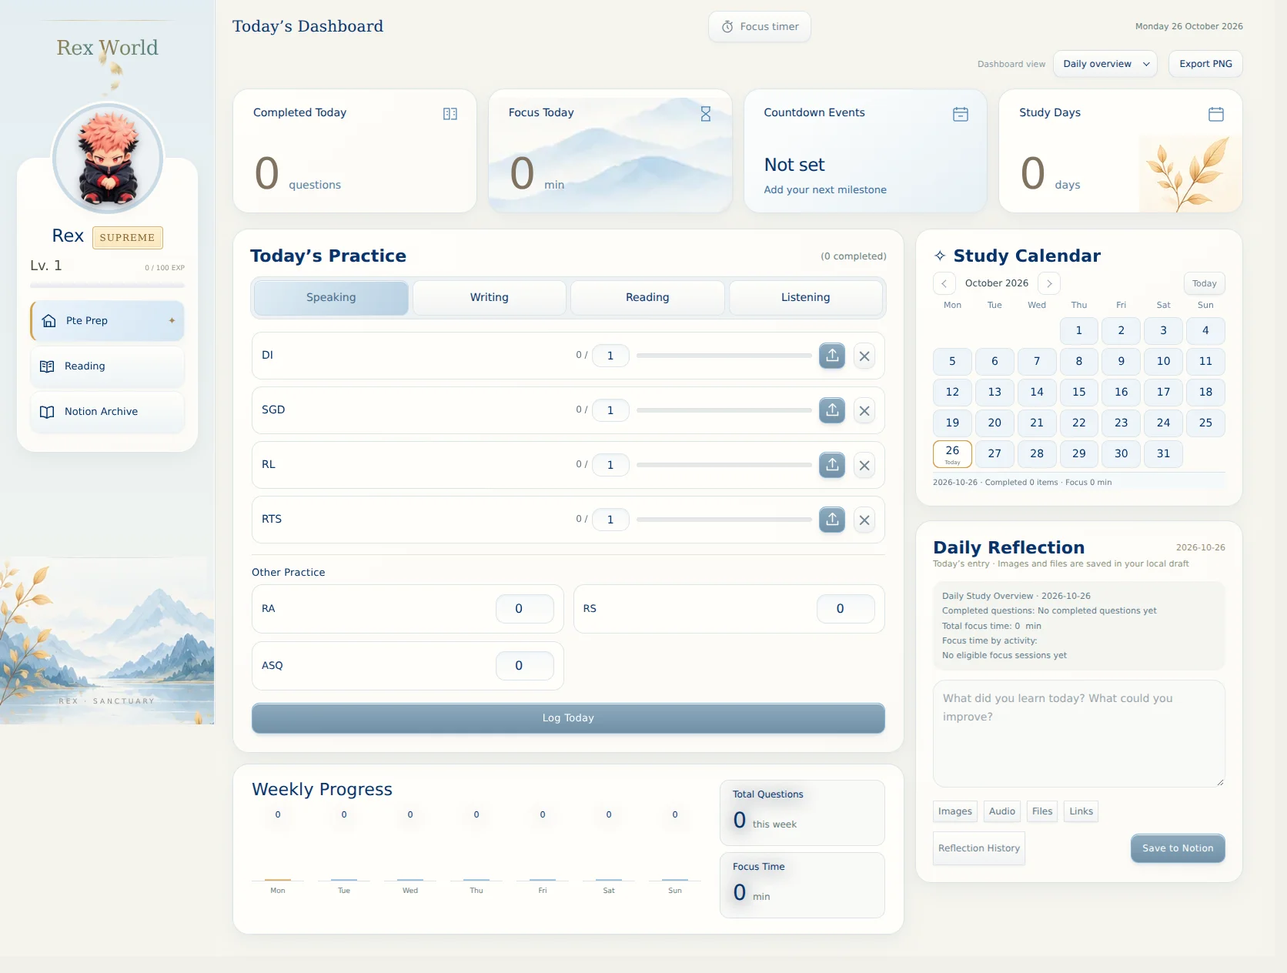
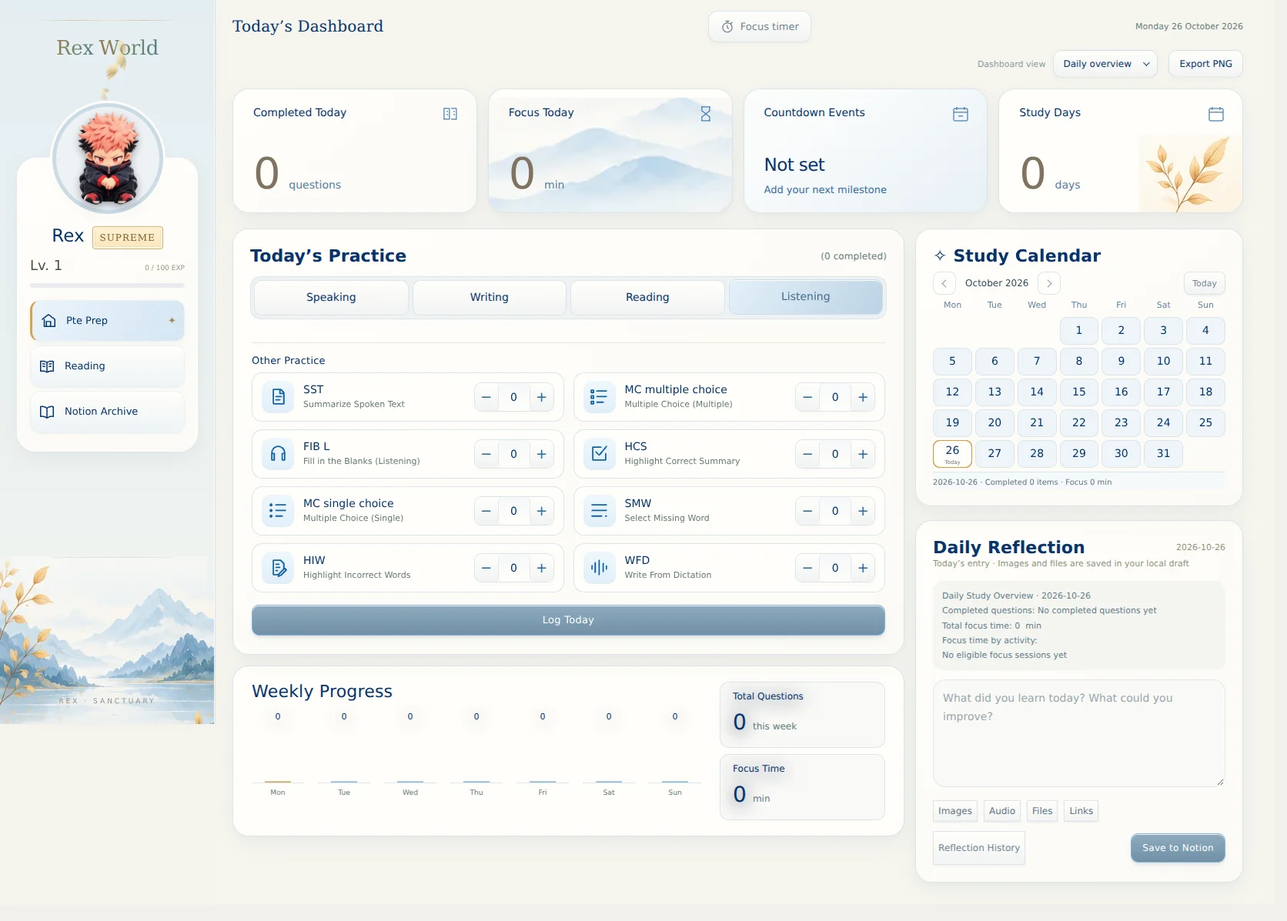
Match reference two-column practice cards and compact count controls

diff --git a/index.html b/index.html
@@ -3,7 +3,7 @@
 <meta name="rex-release" content="20261024-depth1">
 <meta charset="UTF-8"><meta name="viewport" content="width=device-width, initial-scale=1, viewport-fit=cover"><meta name="theme-color" content="#E8F0E8">
 <title>Rex World · Study Sanctuary</title>
-<link rel="manifest" href="manifest.webmanifest?v=20261024-light1"><link rel="apple-touch-icon" sizes="180x180" href="rex-wing-apple-180.png?v=20261019-wing1"><link rel="icon" type="image/x-icon" sizes="any" href="rex-wing.ico?v=20261019-wing1"><link rel="icon" type="image/png" sizes="32x32" href="rex-wing-favicon-32.png?v=20261019-wing1"><meta name="apple-mobile-web-app-capable" content="yes"><meta name="apple-mobile-web-app-status-bar-style" content="default"><meta name="apple-mobile-web-app-title" content="Rex World"><link rel="stylesheet" href="app.css?v=20261024-light1"><link rel="stylesheet" href="reading.css?v=20261024-light1"><link rel="stylesheet" href="champagne-title.css?v=20261024-light1"><link rel="stylesheet" href="rich-editor.css?v=20261024-light1"><script src="rich-doc.js?v=20261019-rich1"></script><script src="rich-codec.js?v=20261019-rich1"></script><script src="rich-editor.js?v=20261019-editor3"></script><script src="reading-document.js?v=20261020-editor6"></script><script src="reading-editor.js?v=20261020-mobile1"></script><link rel="stylesheet" href="focus-push.css?v=20261024-light1"><link rel="stylesheet" href="countdown.css?v=20261024-light1"><link rel="stylesheet" href="reading-focus.css?v=20261024-light1"><link rel="stylesheet" href="timer-entry.css?v=20261024-light1"><link rel="stylesheet" href="theme.css?v=20261024-light1"><link rel="stylesheet" href="depth-preview.css?v=20261024-light1"><link rel="stylesheet" href="sanctuary-refresh.css?v=20261026-sanctuary2"></head>
+<link rel="manifest" href="manifest.webmanifest?v=20261024-light1"><link rel="apple-touch-icon" sizes="180x180" href="rex-wing-apple-180.png?v=20261019-wing1"><link rel="icon" type="image/x-icon" sizes="any" href="rex-wing.ico?v=20261019-wing1"><link rel="icon" type="image/png" sizes="32x32" href="rex-wing-favicon-32.png?v=20261019-wing1"><meta name="apple-mobile-web-app-capable" content="yes"><meta name="apple-mobile-web-app-status-bar-style" content="default"><meta name="apple-mobile-web-app-title" content="Rex World"><link rel="stylesheet" href="app.css?v=20261024-light1"><link rel="stylesheet" href="reading.css?v=20261024-light1"><link rel="stylesheet" href="champagne-title.css?v=20261024-light1"><link rel="stylesheet" href="rich-editor.css?v=20261024-light1"><script src="rich-doc.js?v=20261019-rich1"></script><script src="rich-codec.js?v=20261019-rich1"></script><script src="rich-editor.js?v=20261019-editor3"></script><script src="reading-document.js?v=20261020-editor6"></script><script src="reading-editor.js?v=20261020-mobile1"></script><link rel="stylesheet" href="focus-push.css?v=20261024-light1"><link rel="stylesheet" href="countdown.css?v=20261024-light1"><link rel="stylesheet" href="reading-focus.css?v=20261024-light1"><link rel="stylesheet" href="timer-entry.css?v=20261024-light1"><link rel="stylesheet" href="theme.css?v=20261024-light1"><link rel="stylesheet" href="depth-preview.css?v=20261024-light1"><link rel="stylesheet" href="sanctuary-refresh.css?v=20261026-sanctuary3"></head>
 <body id="rexSanctuary">
 <header class="arcane-header" hidden="">
   <div class="header-inner">
@@ -19,4 +19,4 @@
 <details class="archive-dashboard-sync"><summary>Dashboard Storage · D1</summary><label>D1 Worker URL<input id="cloudOrigin" type="url" placeholder="https://rex-sync.xren0220.workers.dev" autocomplete="off"></label><label>D1 sync key<input id="cloudToken" type="password" autocomplete="off" placeholder="Use the same access key on phone and computer"></label><div class="profile-settings-actions"><button type="button" id="cloudConnect">Connect</button><button type="button" id="cloudSyncNow">Sync Now</button><button type="button" id="cloudDisconnect">Disconnect</button></div><p id="cloudStatus" role="status">D1 not connected · Dashboard records saved on this device</p><small>D1 stores question counts, focus sessions, countdown events and study dates. Notes, images, files and reflections use Notion. Use the same D1 Worker URL and sync key on each device.</small></details>
 <div id="archiveMessage" class="archive-message" role="status">Connect to Notion to browse your saved records.</div><div id="archiveGrid" class="archive-grid"></div></section></main><div class="notice" id="toast" role="status" aria-live="polite"></div>
 <script src="notion-reconcile.js?v=a0f22355cfb0"></script><script src="notion-archive.js?v=20261020-cleanup2"></script><script src="profile-menu.js?v=9dd853622098"></script><div class="focus-overlay" id="focusOverlay" hidden=""><section class="focus-dialog" role="dialog" aria-modal="true" aria-labelledby="focusTitle"><div class="focus-heading"><button type="button" id="focusMenuToggle" class="focus-icon" aria-label="Open timer menu" aria-expanded="false"><svg viewBox="0 0 24 24" width="20" height="20" fill="none" stroke="currentColor" stroke-width="1.5" stroke-linecap="round"><path d="M4 6h16M4 12h16M4 18h16"></path></svg></button><h2 id="focusTitle">Focus Timer</h2><div class="focus-window-actions"><button class="focus-minimize" type="button" aria-label="Minimize timer" title="Minimize to diamond">−</button><button class="focus-close" type="button" aria-label="Close timer"><svg viewBox="0 0 24 24" width="20" height="20" fill="none" stroke="currentColor" stroke-width="1.5" stroke-linecap="round"><path d="m6 6 12 12M18 6 6 18"></path></svg></button></div></div><nav id="focusMenu" class="focus-menu" aria-label="Focus Menu" hidden=""><button type="button" id="focusMenuTimer">Focus Timer</button><button type="button" id="focusMenuStats">Statistics</button></nav><div id="focusTimerView"><div class="focus-modes" aria-label="Timer mode"><button type="button" data-timer-mode="down" aria-pressed="true">Countdown</button><button type="button" data-timer-mode="up" aria-pressed="false">Stopwatch</button></div><label class="focus-duration" id="focusDuration">Focus duration <input id="focusMinutes" type="number" min="1" max="180" value="25" aria-label="Countdown minutes">  min</label><label class="focus-goal"><input id="focusGoal" maxlength="80" placeholder="What will you focus on?" aria-label="Focus goal"><span aria-hidden="true">✧</span></label><div class="focus-time" id="focusTime" role="button" tabindex="0" aria-label="Choose duration"><span class="timer-suspension" aria-hidden="true"></span><span class="timer-cloud" aria-hidden="true"></span><span class="timer-digits" id="timerDigits" title="Click to choose duration">25:00</span><span class="timer-glass-stars" aria-hidden="true">✧ · ✦</span></div><div id="focusTimePicker" class="focus-time-picker" role="dialog" aria-label="Choose duration" hidden=""><p>Choose duration</p><div class="focus-time-presets"><button type="button" data-focus-minutes="15">15  min</button><button type="button" data-focus-minutes="25">25  min</button><button type="button" data-focus-minutes="45">45  min</button><button type="button" data-focus-minutes="60">60  min</button></div><form id="focusCustomTime"><label>Custom <input id="focusCustomMinutes" type="number" min="1" max="180" step="1" value="25" required="">  min</label><button type="submit">Confirm</button></form><button type="button" id="focusPickerClose">Collapse</button></div><p class="focus-status" id="focusStatus" role="status">Ready to focus</p><div class="focus-actions"><button type="button" id="focusStart">Start</button><button type="button" id="focusReset">End</button></div></div><section class="focus-stats" id="focusStatsView" aria-label="Focus Statistics" hidden=""><div class="focus-stats-heading"><button class="focus-icon" id="focusStatsBack" type="button" aria-label="Back to timer"><svg viewBox="0 0 24 24" width="20" height="20" fill="none" stroke="currentColor" stroke-width="1.5" stroke-linecap="round"><path d="m12 5-7 7 7 7M5 12h15"></path></svg></button><h3>Focus Statistics</h3><span aria-hidden="true">✧</span></div><div class="stats-periods" aria-label="Statistics Period"><button type="button" data-period="day" aria-pressed="true">Day</button><button type="button" data-period="week" aria-pressed="false">Week</button><button type="button" data-period="month" aria-pressed="false">Month</button><button type="button" data-period="year" aria-pressed="false">Year</button><button type="button" data-period="custom" aria-pressed="false">Custom</button></div><div id="focusCustomRange" hidden=""><label>Start date<input type="date" id="focusRangeStart"></label><label>End date<input type="date" id="focusRangeEnd"></label></div><button type="button" id="focusRangeCaption" aria-label="Select date" aria-expanded="false"></button><label class="focus-date">Reference date <input id="focusStatsDate" type="date"></label><div class="stats-kind-switch"><button type="button" id="statsShowTime" aria-pressed="false">Time</button><button type="button" id="statsShowContent" aria-pressed="true">Activity</button></div><div id="focusContentPie"></div><h3 class="focus-section-title">Focus Summary</h3><div class="focus-stat-grid"><div>Sessions<strong id="focusTodayCount">0  sessions</strong></div><div>Total time<strong id="focusTodayTime">0  min</strong></div><div>Average session<strong id="focusAverage">0  min</strong></div><div>Abandoned sessions<strong id="focusAbandoned">0  sessions</strong></div></div><h3 class="focus-section-title">Session Details</h3><div class="focus-delete-toolbar" id="focusDeleteToolbar"><label><input type="checkbox" id="focusSelectAll"> Select all in range</label><button type="button" id="focusDeleteSelected" disabled="">Delete selected</button></div><p id="focusDeleteFeedback" class="focus-stat-note" role="status"></p><ul class="focus-history" id="focusHistory" aria-label="Focus session records"></ul><p class="focus-stat-note" id="focusStatsNote">The timer resets after completion. Records are saved in this browser.</p><p class="focus-offline" id="focusOffline" role="status">Focus records are saved locally</p></section></section></div><script src="focus-timer.js?v=20261020-cleanup2"></script><script src="focus-push-store.js?v=20261019-push1"></script><script src="focus-push.js?v=20261019-entry2"></script><script src="offline.js?v=20261019-rich1"></script><script src="avatar.js?v=0272ab34b2b7"></script><script src="study-makeup.js?v=76ed0e034d62"></script><script src="dashboard-store.js?v=20261019-separate1"></script><script src="profile-progress.js?v=20261018-champagne-final"></script><script src="cloud-sync.js?v=20261020-release1"></script><script src="attachment-picker.js?v=151a7d91b5b9"></script><script src="pte.js?v=20261019-xp2"></script><script src="hero-tasks.js?v=20261020-cleanup2"></script><script src="study-calendar.js?v=20261020-release1"></script><script src="compact-dashboard.js?v=20261019-separate1"></script><script src="remember-archive.js?v=3faa0eb6ff3a"></script><script src="sidebar.js?v=383bd61bc37c"></script><script src="daily-summary.js?v=20261020-release1"></script>
-<script src="personal-panel.js?v=44d24a5f16d0"></script><script src="metric-layout.js?v=ab3d7d0b7809"></script><script src="profile-portal.js?v=7a2d32e985bc"></script><script src="speaking-backfill.js?v=20261024-optional1"></script><script src="feather-flow.js?v=4a9974682351"></script><script src="ui-motion.js?v=a4771f8c16dd"></script><script src="progress-motion.js?v=26a371db7d20"></script><script src="weekly-review.js?v=346b8478b086"></script><script src="dashboard-export.js?v=20261024-depth1"></script><script src="reading-xp.js?v=20261018-reading-xp1"></script><script src="reading.js?v=20261020-cleanup2"></script><script src="focus-xp.js?v=20261019-focusxp1"></script><script src="reading-focus.js?v=20261019-tomatobutton1"></script><script src="reading-weekly.js?v=20261020-release1"></script><script src="depth-menu.js?v=20261024-depth1"></script><script src="rex-celebration.js?v=20261024-depth1"></script><script src="sanctuary-presentation.js?v=20261026-sanctuary2"></script></body></html>
+<script src="personal-panel.js?v=44d24a5f16d0"></script><script src="metric-layout.js?v=ab3d7d0b7809"></script><script src="profile-portal.js?v=7a2d32e985bc"></script><script src="speaking-backfill.js?v=20261024-optional1"></script><script src="feather-flow.js?v=4a9974682351"></script><script src="ui-motion.js?v=a4771f8c16dd"></script><script src="progress-motion.js?v=26a371db7d20"></script><script src="weekly-review.js?v=346b8478b086"></script><script src="dashboard-export.js?v=20261024-depth1"></script><script src="reading-xp.js?v=20261018-reading-xp1"></script><script src="reading.js?v=20261020-cleanup2"></script><script src="focus-xp.js?v=20261019-focusxp1"></script><script src="reading-focus.js?v=20261019-tomatobutton1"></script><script src="reading-weekly.js?v=20261020-release1"></script><script src="depth-menu.js?v=20261024-depth1"></script><script src="rex-celebration.js?v=20261024-depth1"></script><script src="sanctuary-presentation.js?v=20261026-sanctuary3"></script></body></html>

diff --git a/sw.js b/sw.js
@@ -2,7 +2,7 @@
 importScripts('focus-push-sw.js?v=20261019-wing1');
 const CACHE='rex-focus-offline-20261024-light1';
 const ROOT=new URL('./',self.location.href),HOME=new URL('index.html',ROOT).href;
-const CORE=["sanctuary-presentation.js?v=20261026-sanctuary2","sanctuary-refresh.css?v=20261026-sanctuary2","assets/sanctuary-landscape.webp","assets/sanctuary-mountains.webp","assets/sanctuary-leaves.webp","reading-document.js?v=20261020-editor6","reading-editor.js?v=20261020-mobile1","reading-weekly.js?v=20261020-release1","theme.css?v=20261024-light1","timer-entry.css?v=20261024-light1","reading-focus.js?v=20261019-tomatobutton1","reading-focus.css?v=20261024-light1","countdown.css?v=20261024-light1","focus-xp.js?v=20261019-focusxp1","focus-push-sw.js?v=20261019-wing1","focus-push-store.js?v=20261019-push1","focus-push.js?v=20261019-entry2","focus-push.css?v=20261024-light1","rich-doc.js?v=20261019-rich1","rich-codec.js?v=20261019-rich1","rich-editor.js?v=20261019-editor3","rich-editor.css?v=20261024-light1","champagne-title.css?v=20261024-light1","reading-xp.js?v=20261018-reading-xp1","reading.js?v=20261020-cleanup2","reading.css?v=20261024-light1","dashboard-export.js?v=20261024-depth1","weekly-review.js?v=346b8478b086","progress-motion.js?v=26a371db7d20","ui-motion.js?v=a4771f8c16dd","feather-flow.js?v=4a9974682351","speaking-backfill.js?v=20261024-optional1","index.html","manifest.webmanifest?v=20261024-light1","rex-wing-apple-180.png?v=20261019-wing1","rex-wing-favicon-32.png?v=20261019-wing1","app.css?v=20261024-light1","notion-reconcile.js?v=a0f22355cfb0","notion-archive.js?v=20261020-cleanup2","profile-menu.js?v=9dd853622098","focus-timer.js?v=20261020-cleanup2","offline.js?v=20261019-rich1","avatar.js?v=0272ab34b2b7","study-makeup.js?v=76ed0e034d62","dashboard-store.js?v=20261019-separate1","profile-progress.js?v=20261018-champagne-final","cloud-sync.js?v=20261020-release1","attachment-picker.js?v=151a7d91b5b9","pte.js?v=20261019-xp2","hero-tasks.js?v=20261020-cleanup2","study-calendar.js?v=20261020-release1","compact-dashboard.js?v=20261019-separate1","remember-archive.js?v=3faa0eb6ff3a","sidebar.js?v=383bd61bc37c","daily-summary.js?v=20261020-release1","personal-panel.js?v=44d24a5f16d0","metric-layout.js?v=ab3d7d0b7809","profile-portal.js?v=7a2d32e985bc","rex-wing-192.png?v=20261019-wing1","rex-wing-512.png?v=20261019-wing1","rex-wing.ico?v=20261019-wing1","avatar-3d.webp","depth-preview.css?v=20261024-light1","depth-menu.js?v=20261024-depth1","rex-celebration.js?v=20261024-depth1"].map(path=>new URL(path,ROOT).href),ASSETS=new Set(CORE);
+const CORE=["sanctuary-presentation.js?v=20261026-sanctuary3","sanctuary-refresh.css?v=20261026-sanctuary3","assets/sanctuary-landscape.webp","assets/sanctuary-mountains.webp","assets/sanctuary-leaves.webp","reading-document.js?v=20261020-editor6","reading-editor.js?v=20261020-mobile1","reading-weekly.js?v=20261020-release1","theme.css?v=20261024-light1","timer-entry.css?v=20261024-light1","reading-focus.js?v=20261019-tomatobutton1","reading-focus.css?v=20261024-light1","countdown.css?v=20261024-light1","focus-xp.js?v=20261019-focusxp1","focus-push-sw.js?v=20261019-wing1","focus-push-store.js?v=20261019-push1","focus-push.js?v=20261019-entry2","focus-push.css?v=20261024-light1","rich-doc.js?v=20261019-rich1","rich-codec.js?v=20261019-rich1","rich-editor.js?v=20261019-editor3","rich-editor.css?v=20261024-light1","champagne-title.css?v=20261024-light1","reading-xp.js?v=20261018-reading-xp1","reading.js?v=20261020-cleanup2","reading.css?v=20261024-light1","dashboard-export.js?v=20261024-depth1","weekly-review.js?v=346b8478b086","progress-motion.js?v=26a371db7d20","ui-motion.js?v=a4771f8c16dd","feather-flow.js?v=4a9974682351","speaking-backfill.js?v=20261024-optional1","index.html","manifest.webmanifest?v=20261024-light1","rex-wing-apple-180.png?v=20261019-wing1","rex-wing-favicon-32.png?v=20261019-wing1","app.css?v=20261024-light1","notion-reconcile.js?v=a0f22355cfb0","notion-archive.js?v=20261020-cleanup2","profile-menu.js?v=9dd853622098","focus-timer.js?v=20261020-cleanup2","offline.js?v=20261019-rich1","avatar.js?v=0272ab34b2b7","study-makeup.js?v=76ed0e034d62","dashboard-store.js?v=20261019-separate1","profile-progress.js?v=20261018-champagne-final","cloud-sync.js?v=20261020-release1","attachment-picker.js?v=151a7d91b5b9","pte.js?v=20261019-xp2","hero-tasks.js?v=20261020-cleanup2","study-calendar.js?v=20261020-release1","compact-dashboard.js?v=20261019-separate1","remember-archive.js?v=3faa0eb6ff3a","sidebar.js?v=383bd61bc37c","daily-summary.js?v=20261020-release1","personal-panel.js?v=44d24a5f16d0","metric-layout.js?v=ab3d7d0b7809","profile-portal.js?v=7a2d32e985bc","rex-wing-192.png?v=20261019-wing1","rex-wing-512.png?v=20261019-wing1","rex-wing.ico?v=20261019-wing1","avatar-3d.webp","depth-preview.css?v=20261024-light1","depth-menu.js?v=20261024-depth1","rex-celebration.js?v=20261024-depth1"].map(path=>new URL(path,ROOT).href),ASSETS=new Set(CORE);
 self.addEventListener('install',event=>event.waitUntil(caches.open(CACHE).then(cache=>cache.addAll(CORE)).then(()=>self.skipWaiting())));
 self.addEventListener('activate',event=>event.waitUntil((async()=>{
  const keys=await caches.keys();await Promise.all(keys.filter(key=>key.startsWith('rex-focus-offline-')&&key!==CACHE).map(key=>caches.delete(key)));

diff --git a/sanctuary-refresh.css b/sanctuary-refresh.css
@@ -266,3 +266,17 @@ html#rexTheme body#rexSanctuary#rexSanctuary#rexSanctuary .sanctuary-weekly{disp
 .sanctuary-week-totals strong{font-size:28px;font-weight:400;margin-right:8px;}
 .sanctuary-week-totals small{font-size:12px;color:var(--muted);}
 @media(max-width:600px){html#rexTheme body#rexSanctuary#rexSanctuary#rexSanctuary .sanctuary-weekly{grid-template-columns:minmax(0,1fr);padding:16px;gap:16px;}.sanctuary-week-totals{grid-template-columns:repeat(2,minmax(0,1fr));}.sanctuary-week-bars{gap:12px;}}
+/* Two-column practice layout from the supplied detail reference. */
+html#rexTheme body#rexSanctuary#rexSanctuary#rexSanctuary #home .pte-count-rows{grid-template-columns:repeat(2,minmax(0,1fr))!important;gap:10px 12px!important;}
+html#rexTheme body#rexSanctuary#rexSanctuary#rexSanctuary #home .pte-count-row{display:grid!important;grid-template-columns:42px minmax(0,1fr) auto!important;gap:12px!important;padding:10px 12px!important;min-height:64px!important;}
+.sanctuary-practice-icon{display:grid;place-items:center;width:42px;height:42px;border-radius:11px;background:linear-gradient(#eef7fc,#e0eef8);color:#1261a6;font:28px/1 'Segoe UI Symbol',sans-serif;}
+.sanctuary-practice-copy{display:grid;gap:4px;min-width:0;}
+.sanctuary-practice-copy>span{font-size:14px;font-weight:500;line-height:1.2;}
+.sanctuary-practice-copy small{font-size:11px;font-weight:400;color:#6388aa;line-height:1.3;}
+.sanctuary-count-stepper{display:flex;align-items:center;border:1px solid #dce5eb;border-radius:10px;overflow:hidden;box-shadow:0 2px 5px #40556308;}
+html#rexTheme body#rexSanctuary#rexSanctuary#rexSanctuary #home .sanctuary-count-stepper button{flex:0 0 30px;min-width:30px!important;width:30px!important;min-height:36px!important;height:36px!important;padding:0!important;border:0!important;border-radius:0!important;color:#286aa1!important;font-size:18px!important;box-shadow:none!important;}
+html#rexTheme body#rexSanctuary#rexSanctuary#rexSanctuary #home .sanctuary-count-stepper input{width:42px!important;min-width:0!important;min-height:36px!important;height:36px!important;padding:0!important;border:0!important;border-inline:1px solid #e3e8eb!important;border-radius:6px!important;text-align:center;font-size:14px!important;box-shadow:none!important;appearance:textfield;}
+.sanctuary-count-stepper input::-webkit-inner-spin-button,.sanctuary-count-stepper input::-webkit-outer-spin-button{-webkit-appearance:none;margin:0;}
+@media(min-width:1200px) and (max-width:1450px){html#rexTheme body#rexSanctuary#rexSanctuary#rexSanctuary #home .pte-count-row{grid-template-columns:32px minmax(0,1fr) auto!important;gap:7px!important;padding:9px!important;}.sanctuary-practice-icon{width:32px;height:36px;font-size:24px;}.sanctuary-practice-copy>span{font-size:12px;}.sanctuary-practice-copy small{font-size:10px;}}
+@media(max-width:600px){html#rexTheme body#rexSanctuary#rexSanctuary#rexSanctuary #home .pte-count-row{grid-template-columns:32px minmax(0,1fr) auto!important;gap:7px!important;padding:8px!important;}.sanctuary-practice-icon{width:32px;height:36px;font-size:23px;}.sanctuary-practice-copy>span{font-size:12px;}.sanctuary-practice-copy small{font-size:10px;}html#rexTheme body#rexSanctuary#rexSanctuary#rexSanctuary #home .sanctuary-count-stepper button{width:25px!important;min-width:25px!important;flex-basis:25px;}html#rexTheme body#rexSanctuary#rexSanctuary#rexSanctuary #home .sanctuary-count-stepper input{width:30px!important;}}
+@media(max-width:540px){html#rexTheme body#rexSanctuary#rexSanctuary#rexSanctuary #home .pte-count-rows{grid-template-columns:minmax(0,1fr)!important;}}

diff --git a/sanctuary-presentation.js b/sanctuary-presentation.js
@@ -19,3 +19,21 @@
  }
  render();for(const event of ['rex-local-changed','rex-cloud-changed','storage'])addEventListener(event,render);setInterval(render,60000);
 })();
+
+/* Present native count inputs as compact practice cards. Existing forms own saving. */
+(()=>{
+ 'use strict';
+ const rows=document.querySelector('.pte-count-rows');if(!rows)return;
+ const names={SST:'Summarize Spoken Text','FIB L':'Fill in the Blanks (Listening)','MC single choice':'Multiple Choice (Single)','MC multiple choice':'Multiple Choice (Multiple)',HCS:'Highlight Correct Summary',SMW:'Select Missing Word',HIW:'Highlight Incorrect Words',WFD:'Write From Dictation'};
+ function decorate(){for(const row of rows.children){
+  if(row.querySelector('.sanctuary-count-stepper'))continue;
+  const input=row.querySelector('input'),title=row.querySelector('span');if(!input||!title)continue;
+  const type=input.dataset.type,icon=document.createElement('span'),copy=document.createElement('span'),subtitle=document.createElement('small'),controls=document.createElement('span');
+  icon.className='sanctuary-practice-icon';icon.setAttribute('aria-hidden','true');icon.innerHTML='<svg viewBox="0 0 24 24" width="25" height="25" fill="none" stroke="currentColor" stroke-width="1.7" stroke-linecap="round" stroke-linejoin="round">'+({SST:'<path d="M6 3h9l4 4v14H6zM14 3v5h5M9 12h7M9 16h5"/>','FIB L':'<path d="M4 14v-3a8 8 0 0 1 16 0v3M4 12h3v8H4zM17 12h3v8h-3z"/>','MC single choice':'<path d="M9 5h12M9 12h12M9 19h8"/><circle cx="3" cy="5" r="1"/><circle cx="3" cy="12" r="1"/><circle cx="3" cy="19" r="1"/>','MC multiple choice':'<path d="M9 5h12M9 12h12M9 19h8"/><path d="M2 4h3v3H2zM2 11h3v3H2zM2 18h3v3H2z"/>',HCS:'<path d="M20 12v8H4V4h10M8 10l4 4 9-11"/>',SMW:'<path d="M3 5h18M3 12h18M3 19h12M20 19h1"/>',HIW:'<path d="M6 3h9l4 4v6M6 3v18h7M9 8h4M9 12h5M9 16h2M13 20l7-7 2 2-7 7-3 1z"/>',WFD:'<path d="M3 10v4M7 6v12M12 3v18M17 7v10M21 10v4"/>'}[type]||'<path d="M5 3h14v18H5zM8 8h8M8 12h8M8 16h5"/>')+'</svg>';
+  copy.className='sanctuary-practice-copy';subtitle.textContent=names[type]||'Completed questions';title.replaceWith(copy);copy.append(title,subtitle);
+  controls.className='sanctuary-count-stepper';
+  for(const [direction,label] of [[-1,'Decrease'],[1,'Increase']]){const button=document.createElement('button');button.type='button';button.textContent=direction===1?'+':'−';button.setAttribute('aria-label',label+' '+type+' count');button.addEventListener('click',event=>{event.preventDefault();direction===1?input.stepUp():input.stepDown();input.dispatchEvent(new Event('input',{bubbles:true}));input.dispatchEvent(new Event('change',{bubbles:true}));});controls.append(button);}
+  controls.insertBefore(input,controls.lastChild);row.prepend(icon);row.append(controls);
+ }}
+ decorate();new MutationObserver(decorate).observe(rows,{childList:true});
+})();

diff --git a/docs/sanctuary-review/VALIDATION.md b/docs/sanctuary-review/VALIDATION.md
@@ -18,6 +18,10 @@ Existing tests cover Notion attachment/retry/conflict behavior, D1 round trips, 
 
 No live Notion or D1 credentials were supplied; live server authentication and writes were not exercised. Existing synchronization, data schema and record-processing source files are unchanged.
 
-This is not pixel-identical: the reference contains minus/plus controls, an intensity legend and alternate countdown formatting that differ from the app. Original behavior takes priority; no fake controls or fabricated study data were introduced. Weekly chart displays actual counts, including zeroes.
+This is not pixel-identical: the reference contains an intensity legend and alternate countdown formatting that differ from the app. Original behavior takes priority; no fake controls or fabricated study data were introduced. Weekly chart displays actual counts, including zeroes.
 
 Screenshots use an isolated empty browser profile; interaction checks used disposable local test records. No user account or existing learning records were accessed. No merge or deployment to main.
+
+## Practice layout follow-up
+
+Match the detail reference with a two-column grid, blue SVG icons, type descriptions and compact minus/input/plus controls. Steppers use the existing native numeric input and emit normal input/change events; the original Log Today form still owns persistence. No autosave or synchronization behavior changes. Browser checks include the increment control, persistence and all eight viewport widths.
